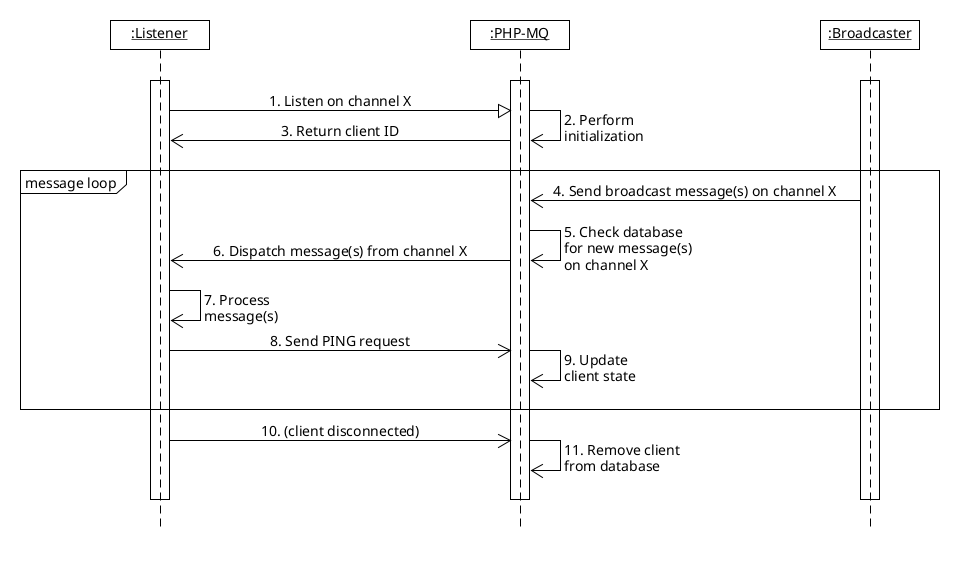
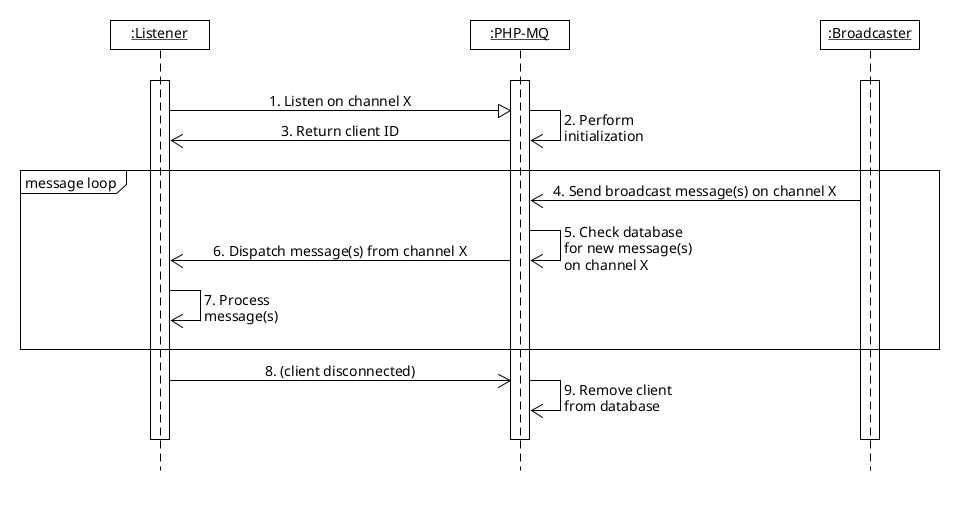
update architecture

diff --git a/src/Listener.php b/src/Listener.php
@@ -53,32 +53,4 @@ class Listener
         header('Location: '.$listenerUrl);
         exit;
     }
-
-    /**
-     * Send a PING request
-     *
-     * This should be called periodically when the stream connection is
-     * alive
-     *
-     * @param int $client Client connection ID
-     *
-     * @return int PING HTTP response code
-     */
-    public function ping($client)
-    {
-        $timestamp = time();
-        $signature = hash_hmac('sha256', $client.$timestamp, $this->secretKey);
-
-        $request = curl_init($this->serverUrl.'ping.php');
-        $params = [
-            'client' => $client,
-            'timestamp' => $timestamp,
-            'signature' => $signature
-        ];
-        curl_setopt($request, CURLOPT_POST, true);
-        curl_setopt($request, CURLOPT_POSTFIELDS, http_build_query($params));
-        curl_exec($request);
-
-        return (int)curl_getinfo($request, CURLINFO_RESPONSE_CODE);
-    }
 }

diff --git a/docs/architecture.md b/docs/architecture.md
@@ -34,7 +34,5 @@ Below is the example diagram of a broadcasting system:
 5. PHP-MQ server will periodically check for new messages on the channel the current client resides in.
 6. If there are messages enqueued on the channel for the client, it will be automatically sent by PHP-MQ server to the listener application via SSE event. The server then dequeues all sent messages, removing them from the database.
 7. Listener application processes SSE messages sent by PHP-MQ server.
-8. Listener application periodically sends PING POST request to the PHP-MQ server to indicate that the client is still alive.
-9. PHP-MQ will update the client's last PING time. When the client is idle for a relatively long time, it will be automatically removed from the database when a new listener request occurs (eventhough it will be removed subsequently after the client disconnects as described in step 10 and 11, this is considered to be the last resort option when the daemon process terminated unexpectedly, thus leaves the database not in sync).
-10. When the client disconnects (browser closes), it will signal the PHP-MQ server to stop the daemon process containing that client.
-11. The daemon process stops and its corresponding client ID is removed from the database.
+8. When the client disconnects (browser closes), it will signal the PHP-MQ server to stop the daemon process containing that client.
+9. The daemon process stops and its corresponding client ID is removed from the database.

diff --git a/docs/implementation.md b/docs/implementation.md
@@ -49,25 +49,10 @@ var sse = new EventSource('listen.php?channel=' + channelId);
 var clientId = null;
 sse.addEventListener('phpmq_client_id', function(event) {
     clientId = parseInt(event.data);
-
-    // PING every 15 seconds
-    setInterval(function() {
-        var ping = new XMLHttpRequest();
-        ping.open('GET', 'ping.php?client=' + clientId);
-        ping.send();
-    }, 15000);
 });
 sse.addEventListener('echo', function(event) {
     console.log('Echo from server: ' + event.data);
 })
-```
-
-Send PING request, within **ping.php**:
-
-```php
-$clientId = $_GET['client'];
-
-$listener->ping($clientId);
 ```
 
 Broadcast SSE message, within **broadcaster.php**
